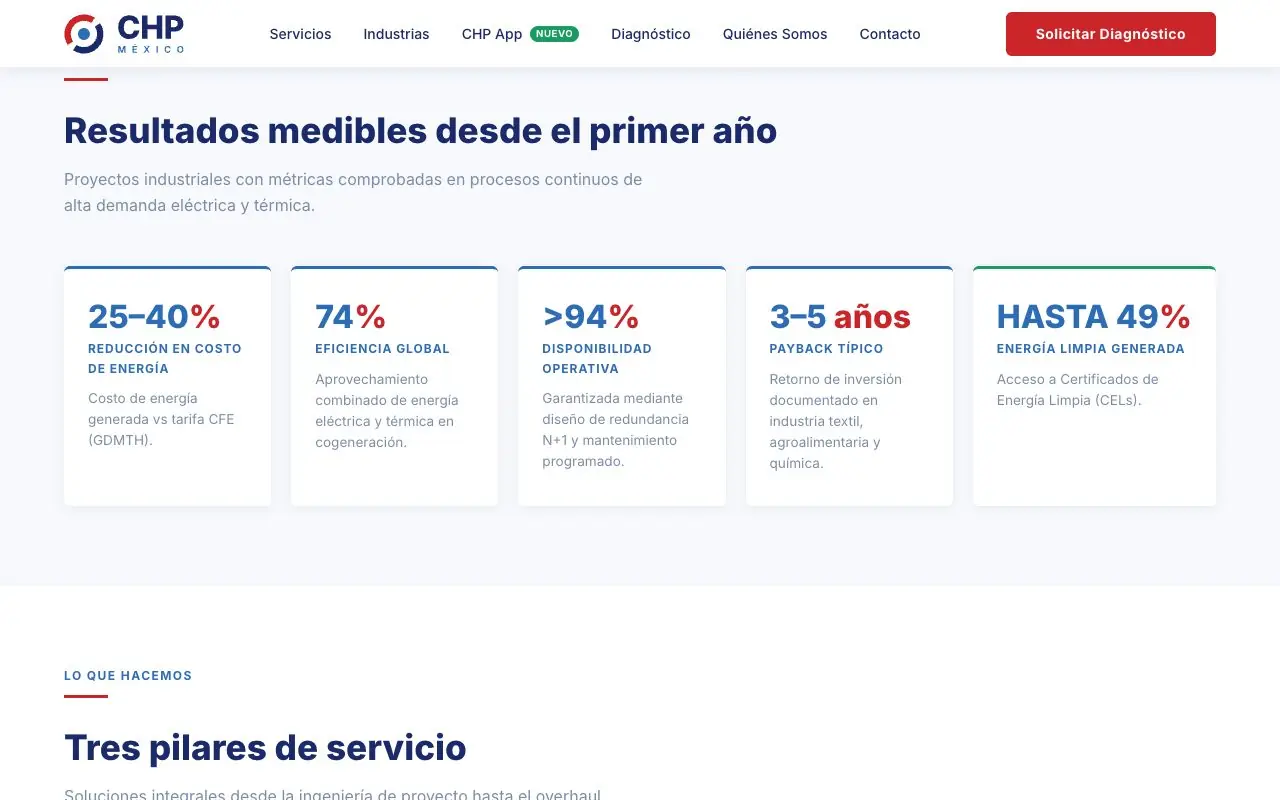
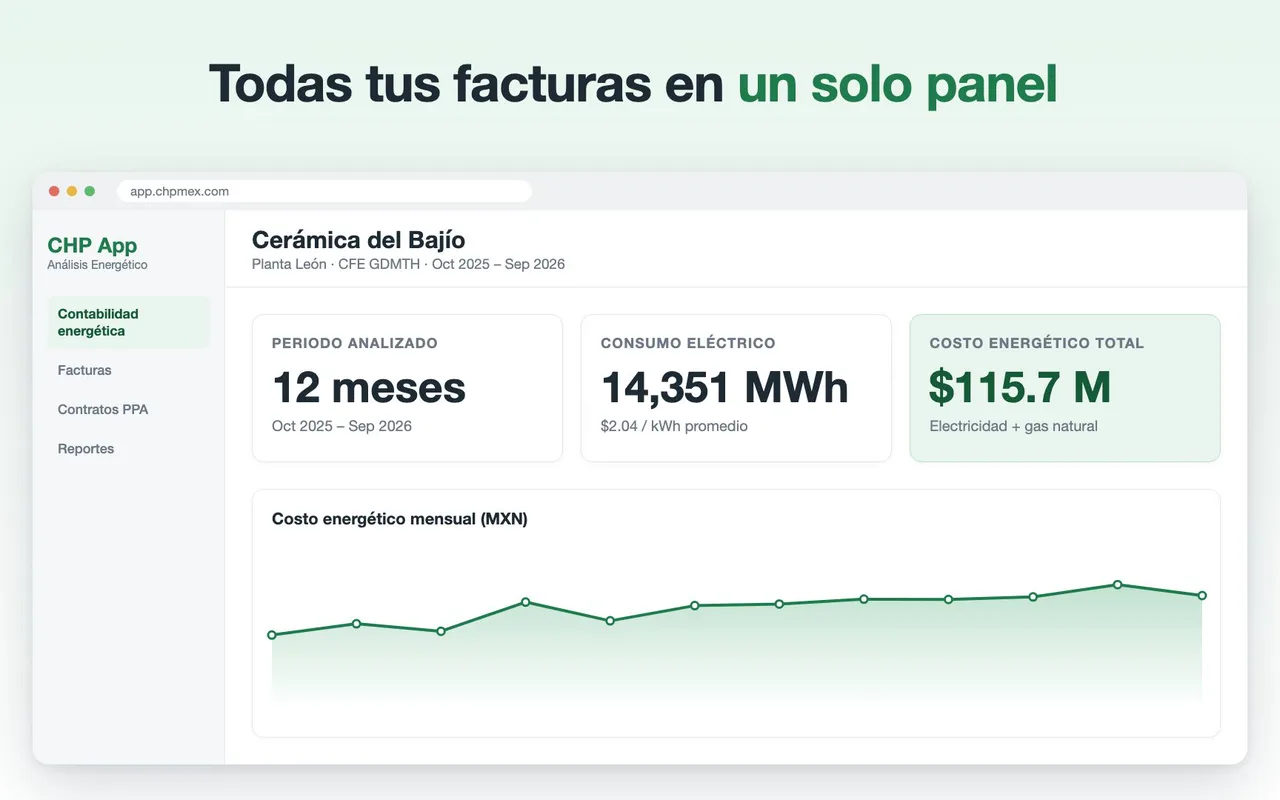
Webs: cada captura en su fila con título y explicación
Las fichas de los proyectos web muestran cada captura junto a un
título y un texto que explica qué se ve, como los diagramas de los
agentes. CHP App sube a cuatro capturas de escritorio (tres nuevas,
tomadas del video de la app) más una fila con las del iPhone.

diff --git a/index.html b/index.html
@@ -118,8 +118,10 @@ dialog::backdrop { background: var(--shade); }
 .sheet.wide p { max-width: 60ch; }
 .sheet.wide .shots { flex-direction: column; gap: 16px; }
 .sheet.wide .shots img { width: 100%; border-radius: 12px; margin: 0; }
-.sheet.wide .shots.phones { flex-direction: row; justify-content: center; }
-.sheet.wide .shots.phones img { width: min(220px, calc(50% - 8px)); border-radius: 18px; }
+/* Webs con explicación: cada captura en su fila, como los diagramas de los agentes */
+.agent.shot h4 { font: 700 19px/1.2 var(--display); letter-spacing: -.01em; }
+.shot .pair { display: flex; justify-content: center; gap: 12px; }
+.agent .pair img { width: min(160px, calc(50% - 6px)); border-radius: 18px; }
 /* Agentes: un diagrama por agente, con su papel y cómo se hace cumplir */
 .agents { display: flex; flex-direction: column; gap: 28px; }
 .agents h3 { font: 700 22px/1.2 var(--display); letter-spacing: -.01em; margin: 0; }
@@ -141,7 +143,6 @@ dialog::backdrop { background: var(--shade); }
   .sheet { grid-template-columns: minmax(0, 1fr); padding: 24px 20px; }
   .shots img { width: calc(50% - 6px); }
   .sheet.wide .shots img { width: 100%; }
-  .sheet.wide .shots.phones img { width: calc(50% - 8px); }
   .agent { grid-template-columns: minmax(0, 1fr); gap: 14px; }
 }
 @media (prefers-reduced-motion: reduce) {
@@ -196,12 +197,28 @@ const PROFILE = {
   // platforms: "iphone", "android", "web", "sheets" o "ia" (alimentan los filtros y las cifras)
   // links: "web", "store", "play", "mail" o "github"; si falta el de la App Store, se deja vacío
   // es.name / en.name: nombre por idioma, si cambia; agents: lista opcional de agentes con su diagrama
+  // shots (webs): en lugar de imgs, cada captura con su título y explicación; { phones: [...] } junta dos del iPhone en una fila
   // agentsDir: carpeta de esos diagramas (por omisión img/agentes); es.agentsTitle / en.agentsTitle: título de la sección, si cambia
   projects: [
     { id: "chp-web", since: "2026-01", name: "CHP App", platforms: ["web", "iphone"], featured: true, wide: true, icon: "img/icons/chp-app.png",
       stack: ["Python", "Flask", "PostgreSQL", "Supabase", "Bootstrap", "Chart.js", "Swift", "SwiftUI"],
-      imgs: ["img/chp-web-1.webp", "img/chp-web-2.webp"],
-      phones: ["img/chp-app-1.webp", "img/chp-app-2.webp"], // la misma plataforma en el iPhone
+      shots: [
+        { src: "img/chp-web-1.webp",
+          es: { title: "chpmex.com", text: "El sitio público de CHP México: cogeneración para la industria, con el diagrama animado de gas, motor, calor y planta, y la entrada a CHP App." },
+          en: { title: "chpmex.com", text: "CHP México's public site: cogeneration for industry, with the animated diagram of gas, engine, heat and plant, and the way into CHP App." } },
+        { src: "img/chp-web-2.webp",
+          es: { title: "Contabilidad energética", text: "Cada planta con su periodo, su consumo eléctrico y su costo total de electricidad y gas, más el costo mes a mes. Todo sale de las facturas que se suben. Con datos de demostración." },
+          en: { title: "Energy accounting", text: "Each plant with its period, power consumption and total electricity and gas cost, plus the cost month by month. It all comes from the uploaded bills. Shown with demo data." } },
+        { src: "img/chp-web-3.webp",
+          es: { title: "Consumo por horario tarifario", text: "Base, intermedia y punta mes a mes contra el costo por kWh, para ver cuánto pesa la punta en el consumo y cuánto en el costo." },
+          en: { title: "Consumption by rate period", text: "Base, intermediate and peak month by month against the cost per kWh, to see how much peak weighs in consumption and how much in cost." } },
+        { src: "img/chp-web-4.webp",
+          es: { title: "Cargos no reconocidos", text: "Compara lo facturado con lo que dice el contrato y lista cada diferencia con su monto y el plazo para reclamarla, junto con las bonificaciones a favor." },
+          en: { title: "Unrecognized charges", text: "It compares what was billed with what the contract says and lists each difference with its amount and the deadline to dispute it, along with the credits in your favor." } },
+        { phones: ["img/chp-app-1.webp", "img/chp-app-2.webp"], // la misma plataforma en el iPhone
+          es: { title: "En el iPhone", text: "La app nativa muestra lo mismo por planta: consumo por horario, costo mensual por concepto y las discrepancias contra el contrato, mes a mes." },
+          en: { title: "On the iPhone", text: "The native app shows the same per plant: consumption by rate period, monthly cost by line item and discrepancies against the contract, month by month." } },
+      ],
       links: [{ type: "web", url: "https://app.chpmex.com", label: "app.chpmex.com" }, { type: "web", url: "https://chpmex.com", label: "chpmex.com" }],
       es: { tag: "La plataforma de CHP México: energía, cogeneración y contabilidad por planta.", desc: "Mi proyecto más grande. La plataforma lee facturas de luz y gas, calcula ahorros y proyecciones de cogeneración, lleva la contabilidad de cada planta y muestra tableros a los clientes, en la web y en el iPhone. Incluye el sitio público chpmex.com y sobre ella funciona también CHP Panel de Control." },
       en: { tag: "CHP México's platform: energy, cogeneration and per-plant accounting.", desc: "My biggest project. The platform reads power and gas bills, calculates cogeneration savings and projections, keeps each plant's books and shows dashboards to clients, on the web and on the iPhone. It includes the public site chpmex.com, and CHP Panel de Control also runs on top of it." } },
@@ -219,7 +236,14 @@ const PROFILE = {
       en: { tag: "Split expenses, free and with no sign-up.", desc: "Split expenses with friends, family or on trips. Free, no sign-up and no limits on expenses or groups. Multiple currencies, settle up in the fewest payments, and it works offline." } },
     { id: "savium-share-dashboard", since: "2026-10-13", wide: true, name: "Savium Share Dashboard", platforms: ["web"],
       stack: ["React", "TypeScript", "Recharts", "Supabase"],
-      imgs: ["img/savium-share-dashboard-1.webp", "img/savium-share-dashboard-2.webp"],
+      shots: [
+        { src: "img/savium-share-dashboard-1.webp",
+          es: { title: "El resumen", text: "Movimientos, grupos nuevos y dormidos, teléfonos activos y descargas por tienda, con el aviso de comentarios sin leer y el periodo a 30, 90 o 365 días." },
+          en: { title: "The overview", text: "Expenses, new and dormant groups, active phones and downloads per store, with the unread feedback alert and a 30, 90 or 365-day period." } },
+        { src: "img/savium-share-dashboard-2.webp",
+          es: { title: "Tiendas, países e idiomas", text: "Instalaciones y desinstalaciones diarias en Google Play, valoración y cierres inesperados, y el uso repartido por país, idioma y versión de la app." },
+          en: { title: "Stores, countries and languages", text: "Daily installs and uninstalls on Google Play, rating and crashes, and usage split by country, language and app version." } },
+      ],
       links: [], // privado
       es: { tag: "El tablero de uso de Savium Share.", desc: "El dashboard privado de Savium Share: grupos, movimientos y teléfonos activos por día, descargas de App Store y Google Play, países, idiomas, versiones, reseñas y comentarios de los usuarios. Sin nombres ni datos personales." },
       en: { tag: "Savium Share's usage dashboard.", desc: "Savium Share's private dashboard: groups, expenses and active phones per day, App Store and Google Play downloads, countries, languages, versions, reviews and user feedback. No names or personal data." } },
@@ -237,19 +261,40 @@ const PROFILE = {
       en: { tag: "A piggy bank that teaches kids to save.", desc: "A digital piggy bank that teaches kids about money: three jars, automatic allowance, chores and goals." } },
     { id: "savium-corporate", since: "2026-04-20", wide: true, name: "Savium Corporate", platforms: ["web"],
       stack: ["React", "TypeScript", "Tailwind", "Supabase"],
-      imgs: ["img/savium-corporate-1.webp", "img/savium-corporate-2.webp"],
+      shots: [
+        { src: "img/savium-corporate-1.webp",
+          es: { title: "La portada", text: "La propuesta en una línea, con un adelanto del estado de resultados, el balance y el puntaje de salud financiera. El sitio está en español e inglés." },
+          en: { title: "The home page", text: "The pitch in one line, with a preview of the income statement, balance sheet and financial health score. The site is in Spanish and English." } },
+        { src: "img/savium-corporate-2.webp",
+          es: { title: "Los módulos", text: "Estado de resultados, balance, flujo de efectivo, 13 índices financieros con semáforos, un CRM y resultados por proyecto o unidad de negocio." },
+          en: { title: "The modules", text: "Income statement, balance sheet, cash flow, 13 financial ratios with traffic lights, a CRM and results per project or business unit." } },
+      ],
       links: [{ type: "web", url: "https://saviumcorporate.manoloto.com" }],
       es: { tag: "Las finanzas de una PyME, sin contabilidad.", desc: "Gestión financiera para PyMEs mexicanas: estado de resultados, balance, flujo de caja e índices financieros con semáforos, sin saber de contabilidad." },
       en: { tag: "Small-business finances, no accounting needed.", desc: "Financial management for Mexican small businesses: income statement, balance sheet, cash flow and financial ratios with traffic lights, no accounting knowledge needed." } },
     { id: "savium-condo", since: "2026-04-16", wide: true, name: "Savium Condo", platforms: ["web"],
       stack: ["React", "TypeScript", "Tailwind", "Supabase"],
-      imgs: ["img/savium-condo-1.webp", "img/savium-condo-2.webp"],
+      shots: [
+        { src: "img/savium-condo-1.webp",
+          es: { title: "El tablero del mes", text: "Propietarios activos, ingresos contra lo esperado, gastos, balance y saldo en cuenta; el mes en curso con sus gastos recurrentes y la morosidad por unidad." },
+          en: { title: "The monthly dashboard", text: "Active owners, income against what was expected, expenses, balance and account balance; the current month with its recurring expenses and overdue units." } },
+        { src: "img/savium-condo-2.webp",
+          es: { title: "Informes", text: "El desglose mensual de ingresos y gastos, con avisos cuando un rubro sube, baja o no se registró, y el reporte ejecutivo en PDF." },
+          en: { title: "Reports", text: "The monthly breakdown of income and expenses, with alerts when a category goes up, down or wasn't recorded, and the executive report as a PDF." } },
+      ],
       links: [], // sin web pública todavía
       es: { tag: "La administración de un condominio.", desc: "Administración de condominios: cuotas y pagos de cada propietario, gastos y proveedores, fondos, morosidad por unidad e informes del mes." },
       en: { tag: "Running a condominium.", desc: "Condominium management: each owner's fees and payments, expenses and suppliers, funds, overdue units and monthly reports." } },
     { id: "pda", since: "2026-09", wide: true, name: "PDA", platforms: ["web"],
       stack: ["Next.js", "TypeScript", "PostgreSQL", "Prisma", "Tailwind"],
-      imgs: ["img/pda-1.webp", "img/pda-2.webp"],
+      shots: [
+        { src: "img/pda-2.webp",
+          es: { title: "Lo que responde el candidato", text: "En cada una de las tres partes elige exactamente 8 palabras que lo describen; al llegar al límite, el resto se desactiva." },
+          en: { title: "What the candidate answers", text: "In each of the three parts they pick exactly 8 words that describe them; once they hit the limit, the rest are disabled." } },
+        { src: "img/pda-1.webp",
+          es: { title: "El informe", text: "Índice de consistencia, resumen ejecutivo, perfil por dimensión y la comparación entre el perfil interno y el percibido." },
+          en: { title: "The report", text: "Consistency index, executive summary, profile by dimension and the comparison between the internal and the perceived profile." } },
+      ],
       links: [], // herramienta privada para un cliente
       es: { tag: "Evaluaciones de perfil conductual para selección de personal.", desc: "El candidato responde desde un enlace eligiendo palabras y escribiendo un texto breve. La plataforma calcula su perfil DISC, lo compara con el ideal del puesto y genera un informe en PDF con riesgos y preguntas para la entrevista." },
       en: { tag: "Behavioral profile assessments for hiring.", desc: "Candidates answer from a link by picking words and writing a short text. The platform calculates their DISC profile, compares it with the role's ideal and produces a PDF report with risks and interview questions." } },
@@ -261,13 +306,27 @@ const PROFILE = {
       en: { tag: "CHP's team console.", desc: "CHP's team console: platform health, access, pending work and approvals from the iPhone." } },
     { id: "ibd-logistics", since: "2026-10-28", wide: true, name: "IBD Logistics", platforms: ["web"], icon: "img/icons/ibd-logistics.svg",
       stack: ["React", "TypeScript", "Vite", "Supabase"],
-      imgs: ["img/ibd-logistics-1.webp", "img/ibd-logistics-2.webp"],
+      shots: [
+        { src: "img/ibd-logistics-1.webp",
+          es: { title: "La portada", text: "De origen a destino: la propuesta, los botones para cotizar y ver servicios, el sello de monitoreo 24/7 y las cifras de la operación." },
+          en: { title: "The home page", text: "Door to door: the pitch, the buttons to get a quote and see services, the 24/7 monitoring seal and the operation's numbers." } },
+        { src: "img/ibd-logistics-2.webp",
+          es: { title: "Cobertura", text: "Los corredores que opera, de Guadalajara y el Bajío a la Ciudad de México, Monterrey y la frontera, en un esquema ilustrativo." },
+          en: { title: "Coverage", text: "The corridors it runs, from Guadalajara and the Bajío to Mexico City, Monterrey and the border, in an illustrative map." } },
+      ],
       links: [], // aún sin publicar
       es: { tag: "Transporte terrestre de carga, de origen a destino.", desc: "El sitio de IBD Logistics: servicio dedicado, carga consolidada, contenedores y viajes spot, monitoreo 24/7, cobertura nacional y formularios de cotización y bolsa de trabajo." },
       en: { tag: "Freight trucking, door to door.", desc: "IBD Logistics' website: dedicated service, consolidated loads, containers and spot trips, 24/7 monitoring, nationwide coverage, and quote and job application forms." } },
     { id: "tortracs", since: "2025-09", wide: true, name: "Tortracs.net", platforms: ["web"], icon: "img/icons/tortracs.svg",
       stack: ["React", "TypeScript", "Vite"],
-      imgs: ["img/tortracs-1.webp", "img/tortracs-2.webp"],
+      shots: [
+        { src: "img/tortracs-1.webp",
+          es: { title: "La portada", text: "Transporte terrestre en México con más de 10 años de operación y un botón directo para cotizar." },
+          en: { title: "The home page", text: "Freight trucking in Mexico with more than 10 years in operation and a direct button to get a quote." } },
+        { src: "img/tortracs-2.webp",
+          es: { title: "Servicios", text: "Servicio dedicado, viajes spot, transporte de contenedores y carga consolidada, cada uno con para quién es." },
+          en: { title: "Services", text: "Dedicated service, spot trips, container transport and consolidated loads, each with who it's for." } },
+      ],
       links: [{ type: "web", url: "https://tortracs.net" }],
       es: { tag: "Transporte de carga por México.", desc: "El sitio de TORTRACS, empresa de transporte terrestre de carga en México: servicio dedicado, carga consolidada, viajes spot y rastreo GPS." },
       en: { tag: "Freight trucking across Mexico.", desc: "The website of TORTRACS, a freight trucking company in Mexico: dedicated service, consolidated loads, spot trips and GPS tracking." } },
@@ -296,7 +355,14 @@ const PROFILE = {
       ] },
     { id: "presupuesto-anual", since: "2026-09", wide: true, name: "Presupuesto Anual", platforms: ["sheets"],
       stack: ["Excel"],
-      imgs: ["img/presupuesto-anual-1.webp", "img/presupuesto-anual-2.webp"],
+      shots: [
+        { src: "img/presupuesto-anual-1.webp",
+          es: { title: "La guía", text: "La primera hoja explica qué hace el libro, qué celdas se capturan y qué va en cada paso, de los supuestos a los gastos." },
+          en: { title: "The guide", text: "The first sheet explains what the workbook does, which cells you fill in and what goes in each step, from assumptions to expenses." } },
+        { src: "img/presupuesto-anual-2.webp",
+          es: { title: "Captura de ingresos", text: "Un renglón por servicio con su unidad, moneda, tarifa y volumen de cada mes; el ingreso en pesos y el costo directo se calculan solos." },
+          en: { title: "Revenue input", text: "One row per service with its unit, currency, rate and monthly volume; revenue in pesos and direct cost are calculated automatically." } },
+      ],
       links: [{ type: "mail", url: "mailto:contacto@manoloto.com?subject=Plantilla%20Presupuesto%20Anual" }],
       es: { tag: "Plantilla de presupuesto anual para un grupo de empresas.", desc: "Un libro de Excel para presupuestar un año mes a mes, con hasta 7 empresas y un corporativo: ingresos por volumen y tarifa, nómina por puesto, gastos, EBITDA, ISR y PTU estimados y utilidad neta, por empresa o consolidado, en MXN y USD. Trae una hoja de guía que explica cómo usarlo. Si la quieres, pídemela y te la mando gratis por correo." },
       en: { tag: "An annual budget template for a group of companies.", desc: "An Excel workbook to budget a year month by month, for up to 7 companies plus a corporate office: revenue by volume and rate, payroll by position, expenses, EBITDA, estimated taxes and net income, per company or consolidated, in MXN and USD. It includes a guide sheet on how to use it. If you want it, ask me and I'll email it to you for free." } },
@@ -335,7 +401,7 @@ const CONTENT = {
     chips: { iphone: "iPhone", android: "Android", web: "Web", sheets: "Hojas de cálculo", ia: "IA" },
     filterLabel: "Filtrar por plataforma",
     web: "Abrir web", store: "App Store", play: "Google Play", mail: "Pedirla gratis por correo", github: "Ver en GitHub",
-    agents: "Los agentes", tools: "Herramientas", enforce: "Cómo se hace cumplir",
+    agents: "Los agentes", shots: "En pantalla", tools: "Herramientas", enforce: "Cómo se hace cumplir",
     contactTitle: "Escríbeme",
     copy: "Copiar correo", copied: "Copiado", close: "Cerrar",
     featured: "Proyecto principal", madeWith: "Hecho con",
@@ -348,7 +414,7 @@ const CONTENT = {
     chips: { iphone: "iPhone", android: "Android", web: "Web", sheets: "Spreadsheets", ia: "AI" },
     filterLabel: "Filter by platform",
     web: "Open site", store: "App Store", play: "Google Play", mail: "Ask for it free by email", github: "View on GitHub",
-    agents: "The agents", tools: "Tools", enforce: "How it's enforced",
+    agents: "The agents", shots: "On screen", tools: "Tools", enforce: "How it's enforced",
     contactTitle: "Write to me",
     copy: "Copy email", copied: "Copied", close: "Close",
     featured: "Main project", madeWith: "Built with",
@@ -426,9 +492,19 @@ function fillSheet(id) {
       ${p.links.length ? `<div class="links">${p.links.map((l) =>
         `<a href="${esc(l.url)}" target="_blank" rel="noopener">${esc(l.label || t[l.type])} ↗</a>`).join("")}</div>` : ""}
     </div>
-    ${p.imgs.length ? `<div class="shots">${p.imgs.map((src, i) =>
-      `<img src="${esc(src)}" alt="${esc(nameOf(p))} ${i + 1}" ${p.wide ? 'width="1280" height="800"' : 'width="540" height="1170"'} decoding="async">`).join("")}</div>` : ""}${p.phones ? `<div class="shots phones">${p.phones.map((src, i) =>
-      `<img src="${esc(src)}" alt="${esc(nameOf(p))} iPhone ${i + 1}" width="540" height="1170" decoding="async">`).join("")}</div>` : ""}${p.agents ? `<section class="agents">
+    ${p.imgs?.length ? `<div class="shots">${p.imgs.map((src, i) =>
+      `<img src="${esc(src)}" alt="${esc(nameOf(p))} ${i + 1}" ${p.wide ? 'width="1280" height="800"' : 'width="540" height="1170"'} decoding="async">`).join("")}</div>` : ""}${p.shots ? `<section class="agents">
+      <h3>${esc(t.shots)}</h3>${p.shots.map((s) => `
+      <article class="agent shot">
+        ${s.phones ? `<div class="pair">${s.phones.map((src) =>
+          `<img src="${esc(src)}" alt="${esc(s[lang].title)}" width="540" height="1170" decoding="async">`).join("")}</div>`
+          : `<img src="${esc(s.src)}" alt="${esc(s[lang].title)}" width="1280" height="800" decoding="async">`}
+        <div>
+          <h4>${esc(s[lang].title)}</h4>
+          <p>${esc(s[lang].text)}</p>
+        </div>
+      </article>`).join("")}
+    </section>` : ""}${p.agents ? `<section class="agents">
       <h3>${esc(p[lang].agentsTitle || t.agents)}</h3>${p.agents.map((a) => `
       <article class="agent">
         <img src="${esc(agentImg(p, a))}" alt="${esc(a[lang].alt)}" width="1280" height="800" decoding="async">
@@ -475,7 +551,7 @@ $("copyBtn").addEventListener("click", () => {
 
 /* Precarga de capturas: al pasar sobre una tarjeta y, después, todas en segundo plano */
 const loaded = new Set();
-const preload = (p) => p && [...p.imgs, ...(p.phones || []), ...(p.agents || []).map((a) => agentImg(p, a))].forEach((src) => { if (!loaded.has(src)) { loaded.add(src); new Image().src = src; } });
+const preload = (p) => p && [...(p.imgs || []), ...(p.shots || []).flatMap((s) => s.phones || [s.src]), ...(p.agents || []).map((a) => agentImg(p, a))].forEach((src) => { if (!loaded.has(src)) { loaded.add(src); new Image().src = src; } });
 $("grid").addEventListener("pointerover", (e) => {
   const b = e.target.closest("[data-open]"); if (b) preload(PROFILE.projects.find((x) => x.id === b.dataset.open));
 });
